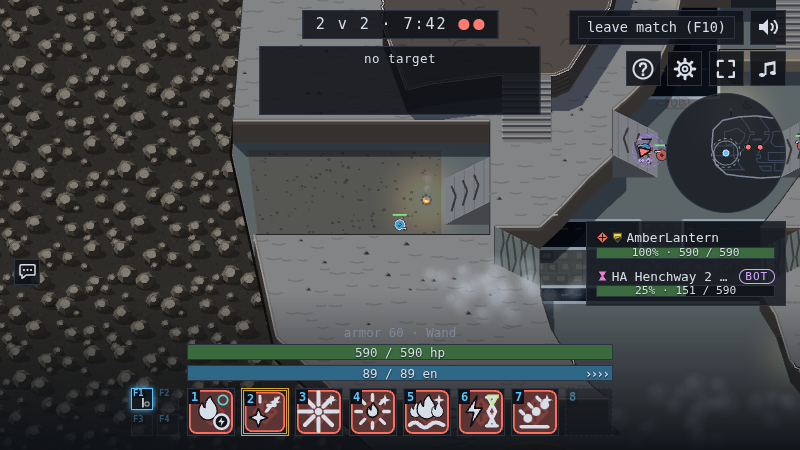
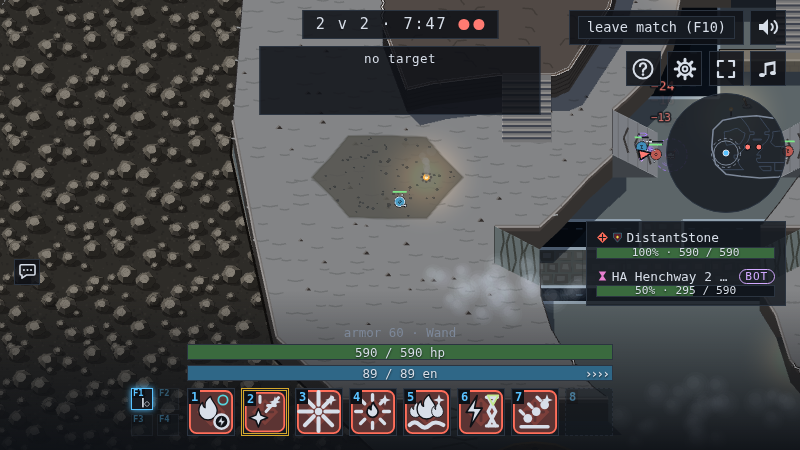
#3286: Frozen Crossing spawns on the banks; camp hollows dropped
The architect's call: each team spawns on its layer-1 bank, not in a
layer-0 camp hollow cut into it.

- west-bank and east-bank are solid again, as are their layer-0 cliff
  walls; camp-ramp-w and camp-ramp-e are gone.
- All six spawn points stand on layer 1, where the camps were.
- The camp fires, smoke plumes and the dirt camp patches move up to
  layer 1; the patches are uneven ovals round the fire, not boxes.
- map-set.test.ts reads spawns on their layer (#3344): clear of that
  layer's walls, on that layer's floor, walked by the layered finder,
  and seated on it in the reach match. Frozen Crossing is the first map
  with spawns off the ground.
- map-balance walks and high ground start on the home spawn's layer,
  not the ground's.
- Spawn screenshots retaken on the banks.

diff --git a/packages/game-maps/src/map-set.test.ts b/packages/game-maps/src/map-set.test.ts
@@ -22,6 +22,7 @@ import { describe, expect, it } from "vitest";
 import { allWallSegments, wallToSegments } from "./geometry.js";
 import { layeredFinder } from "./layered-finder.test-support.js";
 import { matchLayers } from "./layers.js";
+import { mapNavGraphs } from "./nav-graphs.js";
 import { loadAllMaps, loadMap } from "./loader.js";
 import layerTest from "../test-maps/layer-test/map.json" with { type: "json" };
 import outlineTest from "../test-maps/outline-test/map.json" with { type: "json" };
@@ -123,26 +124,30 @@ describe.each(MAPS.map((map) => [map.id, map] as const))("%s (#444)", (_, map) =
         3,
       );
     }
-    const graph = buildNavGraph(walls, bounds, RADIUS, []);
-    for (const { position } of map.spawnPoints) {
-      for (const wall of walls) {
+    // Each on its own layer (#3344): clear of that layer's walls, on that layer's floor.
+    const layerWalls = matchLayers(map).walls;
+    const graphs = mapNavGraphs(map, RADIUS);
+    for (const { position, layer } of map.spawnPoints) {
+      for (const wall of layerWalls[layer] ?? []) {
         expect(
           distancePointToSegment(position, wall),
           JSON.stringify(position),
         ).toBeGreaterThanOrEqual(RADIUS);
       }
+      const graph = graphs[layer];
+      if (graph === undefined) throw new Error(`no layer ${String(layer)}`);
       // On the map, and not inside a wall's outline either.
       expect(nearestStandable(graph, position)).toEqual(position);
     }
   });
 
   it("lets every spawn walk to every other", () => {
-    const finder = createPathFinder(buildNavGraph(walls, bounds, RADIUS, []));
+    const finder = layeredFinder(map, RADIUS);
     for (const from of map.spawnPoints) {
       for (const to of map.spawnPoints) {
         if (from !== to) {
           expect(
-            finder.find(from.position, to.position),
+            finder.find(from.position, from.layer, to.position, to.layer),
             `${JSON.stringify(from.position)} to ${JSON.stringify(to.position)}`,
           ).toBeDefined();
         }
@@ -173,9 +178,8 @@ describe.each(MAPS.map((map) => [map.id, map] as const))("%s (#444)", (_, map) =
       const image = turned(map, spawn.position);
       const across = map.spawnPoints
         .filter((other) => other.team === 1)
-        .map((other) => other.position)
         .reduce((best, other) =>
-          Vec.distance(other, image) < Vec.distance(best, image) ? other : best,
+          Vec.distance(other.position, image) < Vec.distance(best.position, image) ? other : best,
         );
       const sim = new MatchSimulation({
         seed: `reach-${String(k)}`,
@@ -184,7 +188,7 @@ describe.each(MAPS.map((map) => [map.id, map] as const))("%s (#444)", (_, map) =
         layers: matchLayers(map),
         bounds,
         participants: [
-          { id: "a", team: 0, at: spawn.position },
+          { id: "a", team: 0, at: spawn },
           { id: "b", team: 1, at: across },
         ].map(({ id, team, at }) => ({
           id,
@@ -194,7 +198,8 @@ describe.each(MAPS.map((map) => [map.id, map] as const))("%s (#444)", (_, map) =
           equipment: resolved.weaponSets[0].equipment,
           baseEnergyPips: resolved.weaponSets[0].baseEnergyPips,
           maxHealth: 1e7,
-          spawn: at,
+          spawn: at.position,
+          layer: at.layer,
           facing: 0,
         })),
       });

diff --git a/packages/game-maps/src/tools/map-balance.ts b/packages/game-maps/src/tools/map-balance.ts
@@ -211,15 +211,15 @@ function percent(share: number): string {
 /** How far apart the points are that `highGround` measures a map's decks by. */
 const HIGH_GROUND_STEP = 20;
 
-/** The spawn of `team` nearest the middle of its spawns: where its walks start. */
-function homeSpawn(map: MapData, team: number): Vec2 {
+/** The spawn of `team` nearest the middle of its spawns: where its walks start, on its layer (#3344). */
+function homeSpawn(map: MapData, team: number): SpawnPoint {
   const own = map.spawnPoints.filter((spawn) => spawn.team === team);
   const centre = {
     x: own.reduce((sum, { position }) => sum + position.x, 0) / own.length,
     y: own.reduce((sum, { position }) => sum + position.y, 0) / own.length,
   };
   const away = (point: Vec2): number => Math.hypot(point.x - centre.x, point.y - centre.y);
-  const [home] = own.map(({ position }) => position).sort((a, b) => away(a) - away(b));
+  const [home] = [...own].sort((a, b) => away(a.position) - away(b.position));
   if (home === undefined) throw new Error(`${map.id} has no spawn for team ${String(team)}`);
   return home;
 }
@@ -233,11 +233,11 @@ export function walksToCentre(map: MapData): number[] {
   const centre = { x: map.width / 2, y: map.height / 2 };
   return Array.from({ length: map.teams }, (_, team) => {
     const start = homeSpawn(map, team);
-    const route = finder.find(start, map.groundLayer, centre, map.groundLayer);
+    const route = finder.find(start.position, start.layer, centre, map.groundLayer);
     if (route === undefined)
       throw new Error(`${map.id}: team ${String(team)} cannot walk to the centre`);
     return route.reduce((walked, point, index) => {
-      const from = route[index - 1] ?? start;
+      const from = route[index - 1] ?? start.position;
       return walked + Math.hypot(point.x - from.x, point.y - from.y);
     }, 0);
   });
@@ -252,7 +252,8 @@ export function walksToCentre(map: MapData): number[] {
  */
 export function highGround(map: MapData): number[] {
   const [home0, home1] = [homeSpawn(map, 0), homeSpawn(map, 1)];
-  const across = Math.abs(home1.x - home0.x) >= Math.abs(home1.y - home0.y);
+  const across =
+    Math.abs(home1.position.x - home0.position.x) >= Math.abs(home1.position.y - home0.position.y);
   const middle = across
     ? { kind: "rect" as const, x: map.width / 2 - 1, y: 0, width: 2, height: map.height }
     : { kind: "rect" as const, x: 0, y: map.height / 2 - 1, width: map.width, height: 2 };
@@ -273,14 +274,14 @@ export function highGround(map: MapData): number[] {
       for (let y = HIGH_GROUND_STEP / 2; y < map.height; y += HIGH_GROUND_STEP) {
         const point = { x, y };
         // Beyond the middle is walled off: no walk gets there.
-        if (side(point) !== side(home)) continue;
+        if (side(point) !== side(home.position)) continue;
         const layers = new Set(
           map.decks
             .filter((deck) => deck.switched === null && pointInShape(point, deck.footprint))
             .map(({ layer }) => layer),
         );
         for (const layer of layers) {
-          if (finder.find(home, map.groundLayer, point, layer) !== undefined) area += cell;
+          if (finder.find(home.position, home.layer, point, layer) !== undefined) area += cell;
         }
       }
     }
